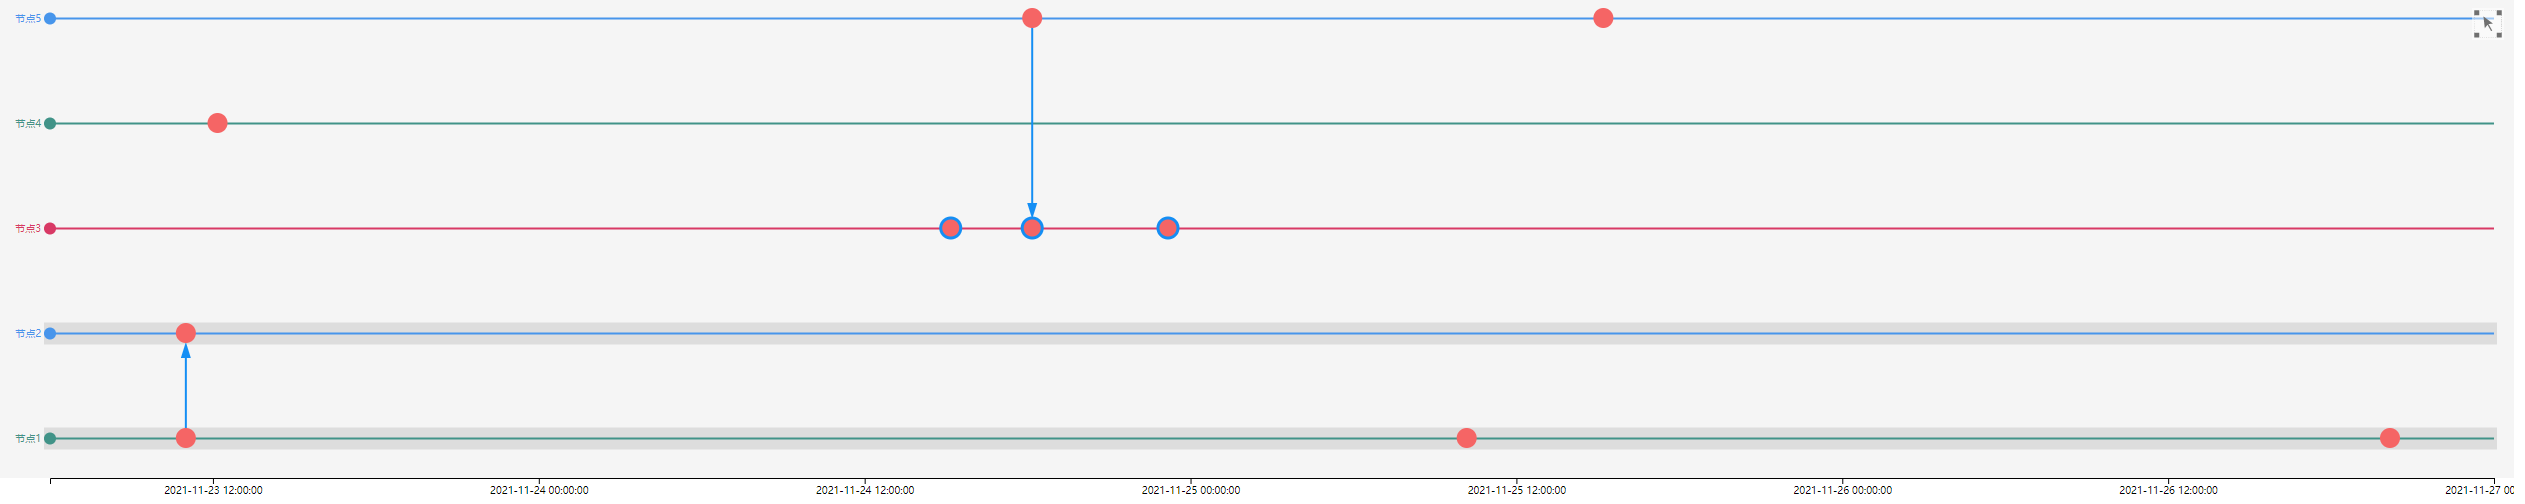
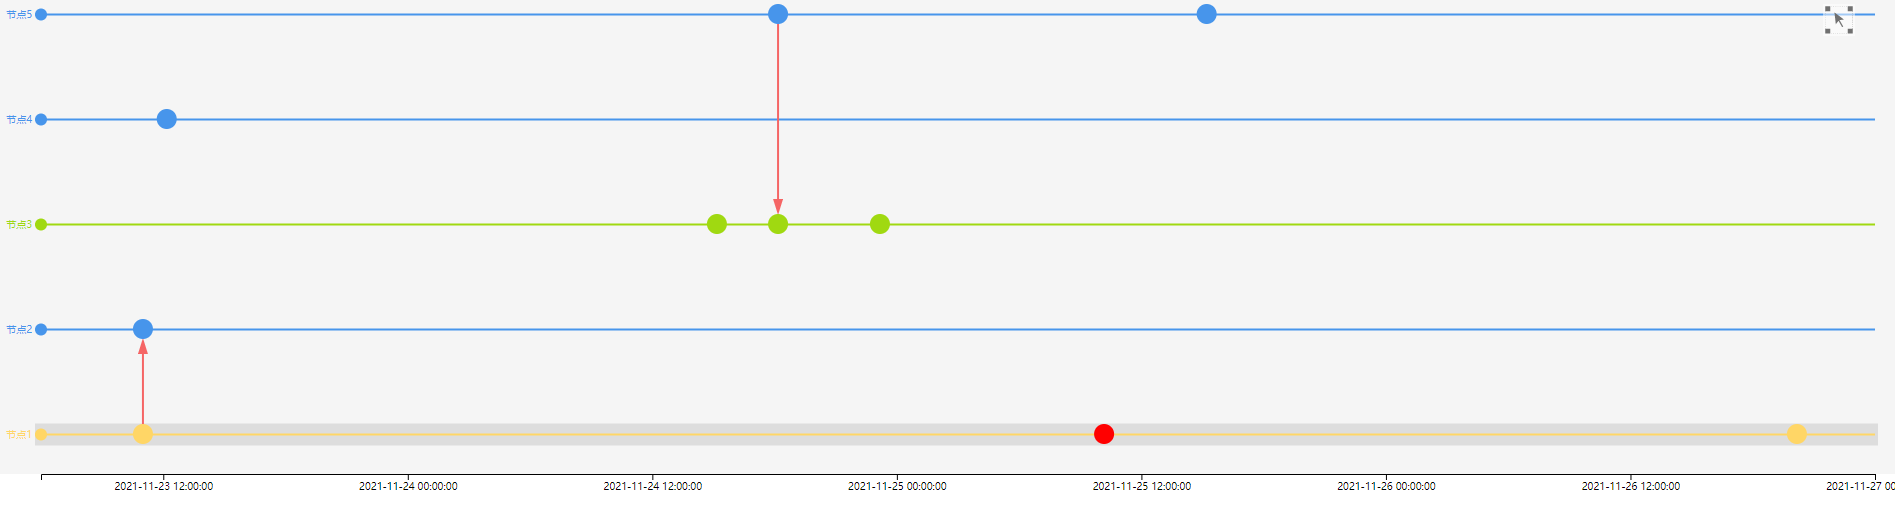
feat: add group color and custom event node's color

diff --git a/src/Component/index.tsx b/src/Component/index.tsx
@@ -24,9 +24,11 @@ export interface ILinkItem {
   target: string;
 }
 
+export type TColors = string[] | Record<string, string>
+
 export interface IOptions {
   background?: string;
-  colors?: string[];
+  colors?: TColors;
   xAxis?: {
     color?: string;
     axisColor?: string;
@@ -214,13 +216,13 @@ const Timeline = ({
         svg.append('g')
           .attr('clip-path', 'url(#clipView)')
           .attr('width', realWidth - padLeft - padRight)
-          .call(drawNodes, nodes, x, y, nodeStyle, onSelectedNodesChange);
+          .call(drawNodes, nodes, x, y, nodeStyle, colors, onSelectedNodesChange);
 
         /* 增加tooltip */
         svg.call(DrawTooltip, links, nodes, showTooltip, tooltipFormat);
       }
     }
-  }, [realWidth, height, JSON.stringify(nodes), JSON.stringify(links), JSON.stringify(padding), JSON.stringify(selectedItem)])
+  }, [realWidth, height, nodes, links, padding, selectedItem])
 
   useEffect(() => {
     const svg = d3.select<SVGGElement, undefined>('#graph-timeline-svg')
@@ -248,8 +250,34 @@ const Timeline = ({
     /* 添加框选或者缩放 */
     if(!isBrush) {
       // 还原原有的节点样式
+      let color = nodeStyle?.color || '#F56565';
+       // when has colors set or data has color attribute set node's color
+      let themes: TColors = colors;
+
+      if (!colors || colors.length === 0) {
+        themes = ['#4795eb', '#419388', '#d83965'];
+      } else {
+        themes = colors;
+      }
+
       svg.selectAll('.nodes circle')
-         .attr('fill', nodeStyle?.color || '#F56565');
+        .each(function (d: INodeItem) {
+          const group = d.name;
+  
+          if (d.color) {
+            color = d.color;
+          } else {
+            const currentGroup = d3.selectAll('.tick circle').filter(function(d: string) {
+              return d === group;
+            });
+
+            color = currentGroup.attr('fill');
+          }
+        
+          const node = d3.select(this);
+        
+          node.attr('fill', color);
+        })
       svg.call(zoom)
         .transition()
         .duration(750);

diff --git a/src/Component/yAxis.tsx b/src/Component/yAxis.tsx
@@ -1,5 +1,5 @@
 import * as d3 from "d3";
-import { INodeItem } from ".";
+import { INodeItem, TColors } from ".";
 
 // 构建数据映射
 export const yRange = (data:INodeItem[], padding: number[], height: number) => {
@@ -24,27 +24,43 @@ export const setYAxisStyle = (
   g:d3.Selection<SVGGElement, undefined, HTMLElement, undefined>,
   supLineWidth: number,
   datas: INodeItem[],
-  colors?: string[],
+  colors?: TColors,
   yAxisStyle?:{
     color?: string;
     axisColor?: string;
     tickColor?: string;
   }
 ) => {
-  const themes= colors || ['#419388', '#4795eb', '#d83965'];
+  let themes: TColors = colors;
+
+  if (!colors || colors.length === 0) {
+    themes = ['#4795eb', '#419388', '#d83965'];
+  } else {
+    themes = colors;
+  }
+
   // 去除y轴的竖线
   g.select('.domain').remove();
   g.selectAll('.tick')
-    .each(function (d, i, nodes) {
-      const currentData = datas.filter(item => item.id === d)[0];
+    .each(function (d: string, i, nodes) {
+      // set yAxis's nodes color
       let color;
-      if(currentData && currentData.color) {
-        color = currentData.color;
-      }else {
-        color = themes[i % 3];
+
+      if (Array.isArray(themes) && themes.length > 0) {
+        color = themes[i % themes.length];
+      } else if (typeof themes === 'object')  {
+        const val = themes[d] || '#4795eb';
+
+        if (typeof val === 'string') {
+          color = val;
+        } else {
+          throw new Error('when colors is a object. The attribute must a color string');
+        }
+      } else {
+        throw new Error('colors need a string array or object');
       }
       const tick = d3.select(this);
-      // 在各项开头增加圆形节点
+      // add circle node in yAxis
       tick.append('circle')
         .attr('r', 6)
         .attr('fill', color);

diff --git a/src/Component/nodes.tsx b/src/Component/nodes.tsx
@@ -1,5 +1,5 @@
 import * as d3 from 'd3';
-import { INodeItem } from '.';
+import { INodeItem, TColors } from '.';
 
 const drawNodes = (
   g:d3.Selection<SVGGElement, undefined, HTMLElement, undefined>,
@@ -11,6 +11,7 @@ const drawNodes = (
     size?: number;
     selectedColor?: string;
   },
+  colors?: TColors,
   onSelectedNodesChange?: <T>(current: T, selectedNodes: T[]) => void
 ) => {
   let color = '#F56565';
@@ -27,6 +28,15 @@ const drawNodes = (
       size = nodeStyle.size;
     }
   }
+
+  // when has colors set or data has color attribute set node's color
+  let themes: TColors = colors;
+
+  if (!colors || colors.length === 0) {
+    themes = ['#4795eb', '#419388', '#d83965'];
+  } else {
+    themes = colors;
+  }
   
   const nodesSelection = g
     .attr("class", "nodes")
@@ -36,7 +46,29 @@ const drawNodes = (
     .attr('cx', d => x(new Date(d.date)))
     .attr('cy', d => y(String(d.name)) || null)
     .attr('r', size)
-    .attr('fill', color);
+    .each(function(d: INodeItem, i, nodes) {
+      const group = d.name;
+  
+      if (d.color) {
+        color = d.color;
+      } else if (Array.isArray(themes) && themes.length > 0) {
+        color = themes[i % themes.length];
+      } else if (typeof themes === 'object') {
+        const val = themes[group] || '#4795eb';
+  
+        if (typeof val === 'string') {
+          color = val;
+        } else {
+          throw new Error('when colors is a object. The attribute must a color string');
+        }
+      } else {
+        throw new Error('colors need a string array or object');
+      }
+  
+      const node = d3.select(this);
+  
+      node.attr('fill', color);
+    });
   
   // 增加点击事件
   function clickHandle(event, data) {

diff --git a/pages/index.tsx b/pages/index.tsx
@@ -4,7 +4,7 @@ import GraphTimeLine from '../src';
 
 const App = () => {
   const [nodes, setNodes] = useState([
-    {id: '1',name: '节点1', date: '2021-11-25 10:10:10'},
+    {id: '1',name: '节点1', date: '2021-11-25 10:10:10', color: 'red'},
     {id: '2',name: '节点1', date: '2021-11-23 11:00:10'},
     {id: '3',name: '节点1', date: '2021-11-26 20:10:10'},
     {id: '4',name: '节点2', date: '2021-11-23 11:00:10'},
@@ -22,11 +22,11 @@ const App = () => {
 
 const [selectedItem, setSelectedItem] = useState(['节点1']);
 
-useEffect(() => {
-  setTimeout(() => {
-    setSelectedItem(['节点1', '节点2'])
-  }, 2000)
-}, [])
+// useEffect(() => {
+//   setTimeout(() => {
+//     setSelectedItem(['节点1', '节点2'])
+//   }, 2000)
+// }, [])
   // useEffect(() => {
   //   const date = new Date();
   //   const getStrDate = (date) => {
@@ -60,6 +60,10 @@ useEffect(() => {
       links={links}
       // useBrush={false}
       options={{
+        colors: {
+          '节点1': '#ffd666',
+          '节点3': '#a0d911'
+        },
         node: {
           size: 10
         }

diff --git a/example/pages/App.tsx b/example/pages/App.tsx
@@ -86,6 +86,15 @@ const App = () => {
           nodes={timelineNodes}
           selectedItem={selectedNodes}
           links={[]}
+          options={{
+            colors: {
+              '节点1': '#ffd666',
+              '节点3': '#a0d911'
+            },
+            node: {
+              size: 10
+            }
+          }}
           onSelect={handleNodeChange}
         />
       </div>

diff --git a/example/pages/data.ts b/example/pages/data.ts
@@ -48,7 +48,7 @@ export const transNodes = (nodes) => {
 }
 
 export const timelineNodes = [
-  { id: '1', name: 'node0', date: '2022-07-19' },
+  { id: '1', name: 'node0', date: '2022-07-19', color: 'red' },
   { id: '2', name: 'node0', date: '2022-05-29' },
   { id: '3', name: 'node1', date: '2022-04-12' },
   { id: '4', name: 'node1', date: '2022-03-05' },

diff --git a/README.md b/README.md
@@ -14,7 +14,7 @@ example展示了和antv G6的联动使用效果，
   import NpmTimeLine from 'graph-timeline';
   function App() {
     const nodes = [
-      {id: '1',name: '节点1', date: '2021-11-25 10:10:10'},
+      {id: '1',name: '节点1', date: '2021-11-25 10:10:10', , color: 'red'},
       {id: '2',name: '节点1', date: '2021-11-23 11:00:10'},
       {id: '3',name: '节点1', date: '2021-11-26 20:10:10'},
       {id: '4',name: '节点2', date: '2021-11-23 11:00:10'},
@@ -45,6 +45,15 @@ example展示了和antv G6的联动使用效果，
               console.log(`当前选中数据：${JSON.stringify(current)}, 已选中数据：${JSON.stringify(selectedData)}`)
             }
           }
+          options={{
+            colors: {
+              '节点1': '#ffd666',
+              '节点3': '#a0d911'
+            },
+            node: {
+              size: 10
+            }
+          }}
           // options={{
           //   background: '#234dad',
           //   xAxis: {
@@ -75,7 +84,7 @@ example展示了和antv G6的联动使用效果，
 * padding?: [number, number, number, number]
 > 内边距，值为长度为4的数据，分别对应上、右、下、左。默认值[20, 20, 20, 50]
 * nodes: []
-> 配置节点对应的数据，数组中的对象`id`、`name`、`date`属性是必须的
+> 配置节点对应的数据，数组中的对象`id`、`name`、`date`属性是必须的, `color`属性可以调整事件节点颜色
 * links: []
 > 配置节点之间的连接关系，其中`source`和`target`均对应nodes中的节点id。
 * useBrush?: boolean
@@ -97,7 +106,7 @@ example展示了和antv G6的联动使用效果，
 ```
   options:{
     background: '#234dad',        // 整体的背景颜色
-    colors: string[],             // 根据该色板循环设置y轴每个item的颜色      
+    colors: string[] | Record<string, string>,             // 根据该色板循环设置y轴每个item的颜色，如果是对象则根据nodes数据中的name属性进行获取
     xAxis: {
       color: 'red',               // x轴的文本颜色
       tickColor: 'red',           // x轴的分割线颜色
@@ -183,6 +192,10 @@ example展示了和antv G6的联动使用效果，
 ### v1.1.2
 * 增加与antv G6使用的案例
 * 修改了动态修改选择点时无法渲染视图的问题
+
+### v1.1.3
+* 修改了example中的使用案例
+* 增加了自定义设置节点颜色的功能，事件节点与节点颜色保持一致，也可通过nodes进行单独定制
 
 ## 题外话
 这个组件是从部门内部的需求衍生出来的一个组件，起初只是为了满足业务需求。
